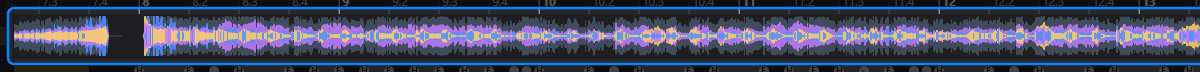
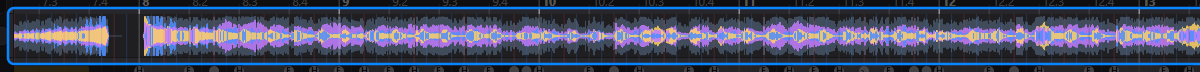
Faded grid lines through the waveform and the object strip
Bar, beat and snap lines now run from the ruler down through the song waveform
and the gameplay objects at 35 % strength, so hits line up with what's above.

diff --git a/src/OsuHitsound.App/ArrangeView.cs b/src/OsuHitsound.App/ArrangeView.cs
@@ -314,19 +314,7 @@ internal sealed class ArrangeView : Control
             {
                 DrawConflictColumns(ctx, model, from, to, size.Height);
 
-                // Snap lines only when they are at least 6 px apart.
-                if (SnapOn && lines.Count > 0 && Axis.Zoom * lines[0].BeatLength / Divisor >= 6)
-                    foreach (var (t, fraction) in model.SubLines(from, to, Divisor))
-                    {
-                        double x = GridLeft + Axis.X(t);
-                        ctx.DrawLine(Paint.SnapPen(fraction), new Point(x, HeaderHeight), new Point(x, size.Height));
-                    }
-
-                foreach (var line in lines)
-                {
-                    double x = GridLeft + Axis.X(line.Time);
-                    ctx.DrawLine(line.IsBar ? Paint.BarPen : Paint.BeatPen, new Point(x, HeaderHeight), new Point(x, size.Height));
-                }
+                DrawGridLines(ctx, model, lines, from, to, HeaderHeight, size.Height);
 
                 var range = Edits.Range;
                 double rangeLeft = range is null ? 0 : GridLeft + Axis.X(range.Start), rangeRight = range is null ? 0 : GridLeft + Axis.X(range.End);
@@ -436,12 +424,35 @@ internal sealed class ArrangeView : Control
             DrawBookmarks(ctx);
             DrawWaveform(ctx, width);
             DrawObjects(ctx, model, width);
+            // The grid runs on through the waveform and the objects, faded so it doesn't fight them, so hits line up
+            // with what's above them.
+            using (ctx.PushOpacity(StripGridOpacity))
+                DrawGridLines(ctx, model, lines, Axis.Time(0), Axis.Time(gridWidth), RulerBottom, HeaderHeight);
 
             double px = GridLeft + Axis.X(Playhead);
             ctx.FillRectangle(Paint.White, new Rect(px - 2, rulerTop, 4, RulerHeight));
         }
 
         ctx.DrawLine(Paint.DividerPen, new Point(0, HeaderHeight - 0.5), new Point(width, HeaderHeight - 0.5));
+    }
+
+    private const double StripGridOpacity = 0.35; // the grid lines over the waveform and objects
+
+    /// <summary>Bar, beat and (with snap on, when at least 6 px apart) snap lines between two heights.</summary>
+    private void DrawGridLines(DrawingContext ctx, ArrangeModel model, List<GridLine> lines, double from, double to, double top, double bottom)
+    {
+        if (SnapOn && lines.Count > 0 && Axis.Zoom * lines[0].BeatLength / Divisor >= 6)
+            foreach (var (t, fraction) in model.SubLines(from, to, Divisor))
+            {
+                double x = GridLeft + Axis.X(t);
+                ctx.DrawLine(Paint.SnapPen(fraction), new Point(x, top), new Point(x, bottom));
+            }
+
+        foreach (var line in lines)
+        {
+            double x = GridLeft + Axis.X(line.Time);
+            ctx.DrawLine(line.IsBar ? Paint.BarPen : Paint.BeatPen, new Point(x, top), new Point(x, bottom));
+        }
     }
 
     private static readonly IBrush CycleOn = Paint.Brush(Color.Parse("#2f6fd0"), 0.55), CycleOff = Paint.Brush(Color.Parse("#8e8e93"), 0.35),
